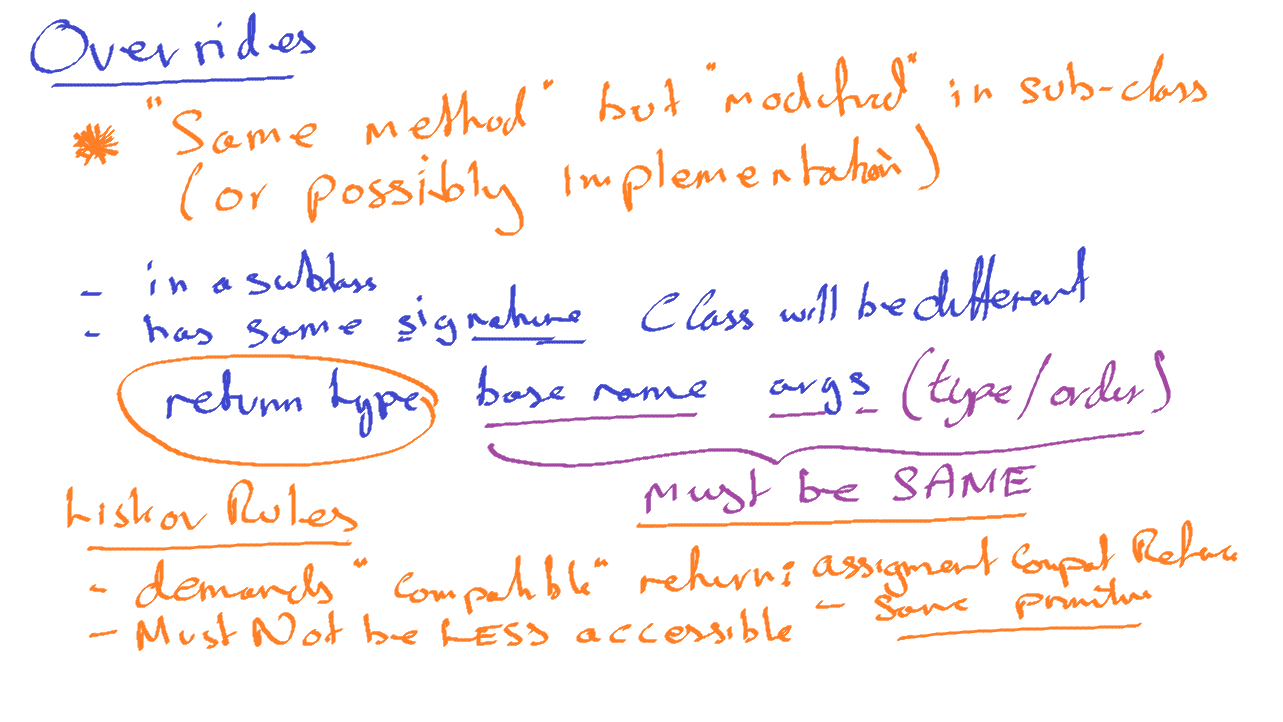
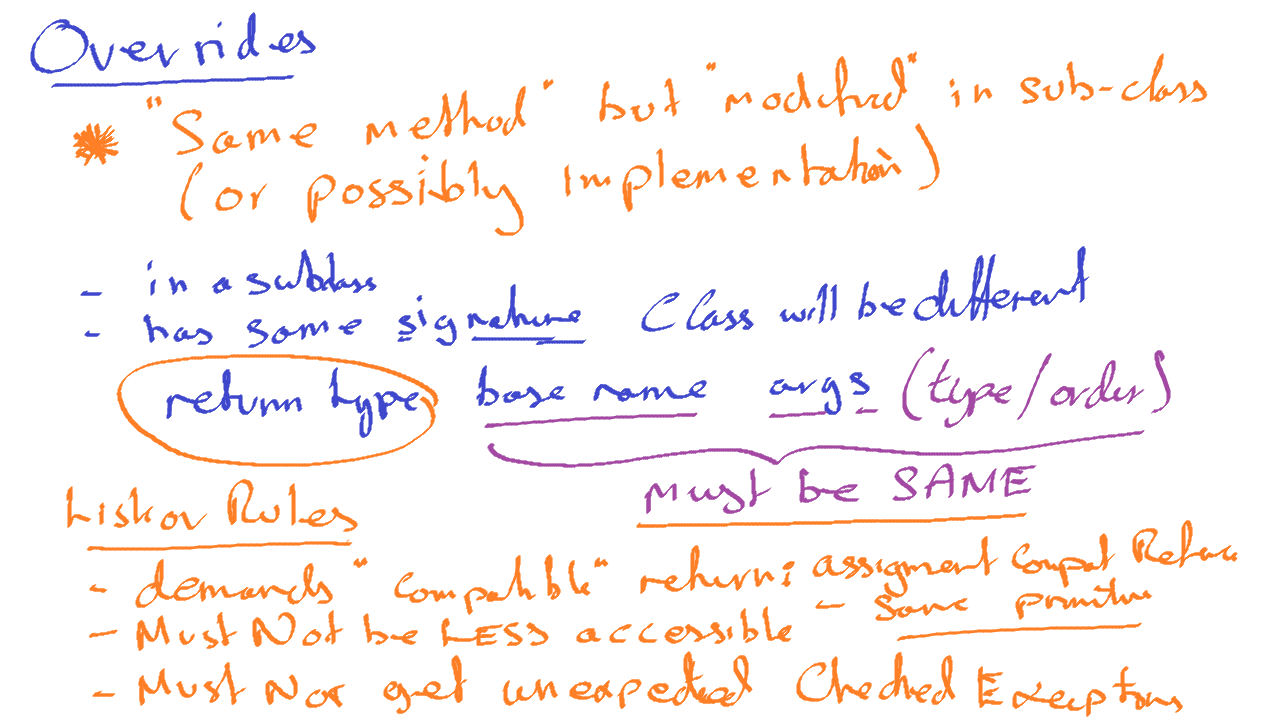
Commit for end of day two

Changed region(s): [[0.0624, 0.9141, 0.5924, 0.9751], [0.6235, 0.9141, 0.9353, 1.0]]

diff --git a/src/main/java/methodidentity/Overriding.java b/src/main/java/methodidentity/Overriding.java
@@ -22,7 +22,7 @@ class Parent {
     return 99;
   }
 
-  protected void silentStuff() {
+  protected void silentStuff() throws IOException {
   }
 
   //  @Override
@@ -69,7 +69,21 @@ class Sub extends Parent {
 //  @Override
 // if less accessible, then attempt
 // to access via Parent reference would fail at runtime!
-  public void silentStuff() throws IOException {}
+  public void silentStuff() {
+    if (Math.random() > 0.5) {
+      try {
+        throw new IOException();
+      } catch (Exception e) {
+        e.printStackTrace();
+      }
+
+    }
+  }
+/* If I remove throws IOException here..
+A) just fine
+B) compiler fails
+C) possibly fails at runtime?
+ */
 
   // A) make it public?
   // B) make it private?
